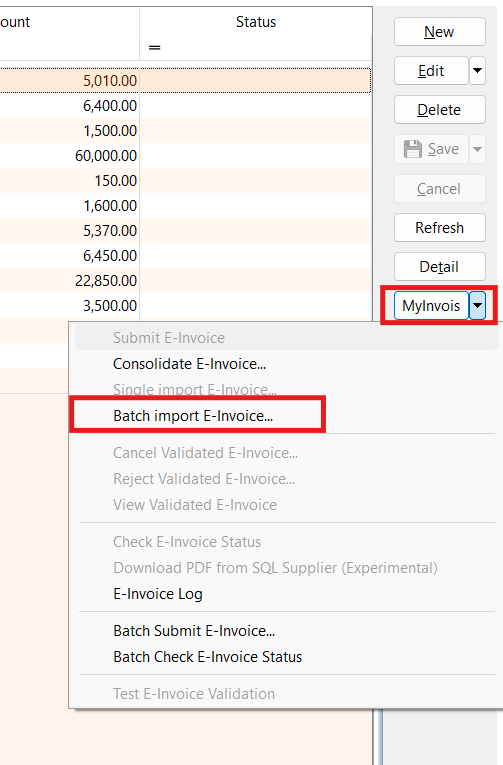
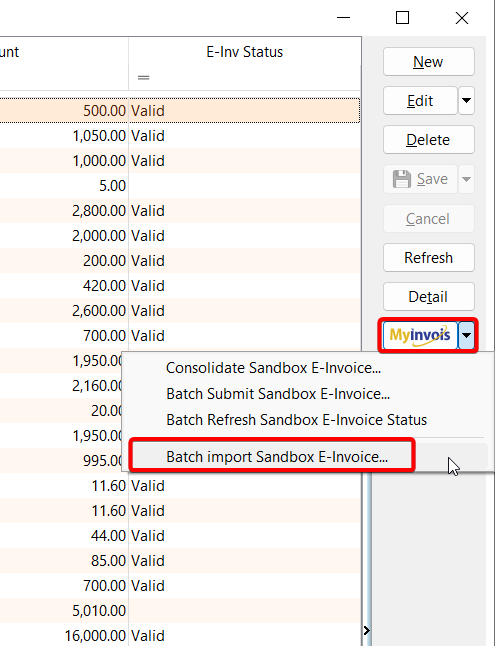
feat: Update MyInvois Import and add Taxpayers QR Code (#43)
* feat: update myinvois import

* feat: add taxpayers qr code

diff --git a/docs/usage/myinvois/einvoice-operation.md b/docs/usage/myinvois/einvoice-operation.md
@@ -216,63 +216,27 @@ You can view all past submission and cancellation log of an invoice.
 
     ![sales-invoice-log](../../../static/img/myinvois/einvoice/sales-invoice-log.png)
 
-## Purchase Documents Import
+## Import
 
-SQL Account offers two methods for importing purchase documents from the E-Invoice system:
+SQL Account offers two methods for importing sales or purchase documents from the E-Invoice system:
 
-- [Single Import](#single-import): Enables you to import individual documents.
 - [Batch Import](#batch-import): Allows you to import multiple documents at once.
+- [Linking](#linking): Allows you to link the existing document with received E-Invoice document.
 
 To ensure proper import, it's important to understand how the document types in SQL Account are mapped to those received from the E-Invoice system. The table below shows how the document types in the SQL Account are mapped to those received from the E-Invoice system:
 
 | SQL Account Document Type | E-Invoice Document Type |
 | ------------------------- | ----------------------- |
+| Sales Invoice             | Self-Billed Invoice     |
+| Cash Sales                | Self-Billed Invoice     |
+| Credit Note               | Self-Billed Credit Note |
+| Debit Note                | Self-Billed Debit Note  |
+| Receipt Voucher           | Self-Billed Invoice     |
 | Purchase Invoice          | Invoice                 |
 | Cash Purchase             | Invoice                 |
 | Purchase Returned         | Credit Note             |
 | Purchase Debit Note       | Debit Note              |
-
-### Single Import
-
-You can view all received documents and single import into SQL Account.
-
-1. Go to document detail screen and click on **MyInvois** > **Single import E-Invoice**
-
-    ![purchase-invoice-single-import-button](../../../static/img/myinvois/einvoice/purchase-invoice-single-import-button.png)
-
-    ![purchase-invoice-single-import-form](../../../static/img/myinvois/einvoice/purchase-invoice-single-import-form.png)
-
-2. Choose the desired date range and press the **Apply** button to filter the documents
-
-    ![purchase-invoice-single-import-form-daterange](../../../static/img/myinvois/einvoice/purchase-invoice-single-import-form-daterange.png)
-
-3. The table will display the list of E-Invoice documents your company has received
-
-    ![purchase-invoice-single-import-form-apply](../../../static/img/myinvois/einvoice/purchase-invoice-single-import-form-apply.png)
-
-4. SQL Account will auto-map the supplier code if the supplier's TIN matches the TIN in Maintain Supplier
-
-    :::info[NOTE]
-    We suggest adding the TIN for existing suppliers or creating a new supplier record
-    :::
-
-    :::info[NOTE]
-    A supplier code is required. An error message will appear if you attempt to import a document without a supplier code
-    :::
-
-    ![purchase-invoice-single-import-form-select-supplier](../../../static/img/myinvois/einvoice/purchase-invoice-single-import-form-select-supplier.png)
-
-    ![purchase-invoice-single-import-form-select-supplier-error](../../../static/img/myinvois/einvoice/purchase-invoice-single-import-form-select-supplier-error.png)
-
-5. Once you have selected the desired documents, click on the **Import** button to proceed with the single import
-
-    ![purchase-invoice-single-import](../../../static/img/myinvois/einvoice/purchase-invoice-single-import.png)
-
-    ![purchase-invoice-single-import-details](../../../static/img/myinvois/einvoice/purchase-invoice-single-import-details.png)
-
-6. After reviewing the document details, click **Save** to complete the process
-
-    ![purchase-invoice-single-import-success](../../../static/img/myinvois/einvoice/purchase-invoice-single-import-success.png)
+| Payment Voucher           | Invoice                 |
 
 ### Batch Import
 
@@ -295,30 +259,77 @@ You can view all received documents and batch import into SQL Account.
 
     ![purchase-invoice-batch-import-form-apply](../../../static/img/myinvois/einvoice/purchase-invoice-batch-import-form-apply.png)
 
-4. You can select multiple documents using the checkboxes provided
-5. SQL Account will auto-map the supplier code if the supplier's TIN matches the TIN in Maintain Supplier
+4. Each document will display a status in the **Status** column. Below is the description and import action of each status:
+
+    | Status         | Description                                         | Action                          |
+    | -------------- | --------------------------------------------------- | ------------------------------- |
+    | (Blank)        | Not yet imported                                    | Create new document             |
+    | Doc Exists     | Document already exists in the system               | Update E-Invoice related fields |
+    | Different UUID | Document exists but with a different E-Invoice UUID | Create new document             |
+    | Done           | Successfully imported                               | -                               |
 
     :::info[NOTE]
-    We suggest adding the TIN for existing suppliers or creating a new supplier record
+    Double-clicking a row will drill down into the existing document, while double-clicking the **E-Invoice Status** column will open the validation link
     :::
+
+5. SQL Account will auto-map the Customer/Supplier Code using the following conditions:
+
+    - Same **TIN** (prioritized)
+    - Same **ID Number** or similar **Company Name**
 
     ![purchase-invoice-batch-import-form-select-supplier](../../../static/img/myinvois/einvoice/purchase-invoice-batch-import-form-select-supplier.png)
 
 6. A tax code is required for an item if the tax amount is greater than 0
 
-    :::info[NOTE]
-    The document will displayed in **red font** if the tax code is missing when it is required
-    :::
-
     ![purchase-invoice-batch-import-form-select-tax](../../../static/img/myinvois/einvoice/purchase-invoice-batch-import-form-select-tax.png)
 
-    ![purchase-invoice-batch-import-form-tax](../../../static/img/myinvois/einvoice/purchase-invoice-batch-import-form-tax.png)
-
-7. Once you have selected the desired documents, click on the **Import** button to proceed with the batch import
+7. You may click on the **Import** button to proceed with the import
 
     ![purchase-invoice-batch-import](../../../static/img/myinvois/einvoice/purchase-invoice-batch-import.png)
 
+8. A message dialog  will indicate success or display an error, if any
+
     ![purchase-invoice-batch-import-success](../../../static/img/myinvois/einvoice/purchase-invoice-batch-import-success.png)
+
+    ![purchase-invoice-batch-import-error](../../../static/img/myinvois/einvoice/purchase-invoice-batch-import-error.png)
+
+### Linking
+
+You can view and link the received E-Invoice documents associated with the TIN of the selected document to update its E-Invoice related fields.
+
+1. Click on **🔍** of MyInvois UUID field in more panel
+
+    ![purchase-invoice-linking](../../../static/img/myinvois/einvoice/purchase-invoice-linking.png)
+
+2. The form will display only documents related to the same TIN as the selected record
+
+    ![purchase-invoice-linking-form](../../../static/img/myinvois/einvoice/purchase-invoice-linking-form.png)
+
+3. Select the appropriate document and click on the **Update** button to link it
+
+### Create / Update Customer or Supplier
+
+To create or update a customer or supplier from the import form, follow these steps:
+
+1. Click on the **Company Name** column
+
+    :::info[NOTE]
+    If the Customer/Supplier Code has value, SQL Account will update the existing record. If it is empty, a new customer/supplier will be created.
+    :::
+
+    ![purchase-invoice-batch-import-update-supplier](../../../static/img/myinvois/einvoice/purchase-invoice-batch-import-update-supplier.png)
+
+2. A comparison view will appear showing fields from the existing record in Maintain Customer/Supplier and the E-Invoice document
+
+    :::info[NOTE]
+    - The selected value will appear in **bold**
+    - The unselected value will be shown with a ~~strikethrough~~
+    - If both values (from E-Invoice and existing record) are identical, the cell will be merged
+    :::
+
+    ![purchase-invoice-batch-import-supplier-form](../../../static/img/myinvois/einvoice/purchase-invoice-batch-import-supplier-form.png)
+
+3. Click the **Create** or **Update** button to apply the changes to the customer or supplier record
 
 ## Rejection (Imported Documents)
 

diff --git a/docs/usage/myinvois/einvoice.md b/docs/usage/myinvois/einvoice.md
@@ -52,6 +52,8 @@ After saving your Sales Invoice or Cash Sales document, you can access E-Invoice
 - [Test E-Invoice Validation](e-invoice-operation#test-e-invoice-validation)
 - [Share PDF](e-invoice-operation#share-pdf-experimental)
 - [E-Invoice Request](e-invoice-operation#e-invoice-request)
+- [Batch Import](e-invoice-operation#batch-import)
+- [Linking](e-invoice-operation#linking)
 
 ### Credit Note
 
@@ -141,6 +143,8 @@ After saving your Credit Note document, you can access E-Invoice operations thro
 - [Batch Refresh Status](e-invoice-operation#batch-refresh-status)
 - [Test E-Invoice Validation](e-invoice-operation#test-e-invoice-validation)
 - [Share PDF](e-invoice-operation#share-pdf-experimental)
+- [Batch Import](e-invoice-operation#batch-import)
+- [Linking](e-invoice-operation#linking)
 
 ### Debit Note
 
@@ -192,6 +196,8 @@ After saving your Debit Note document, you can access E-Invoice operations throu
 - [Batch Refresh Status](e-invoice-operation#batch-refresh-status)
 - [Test E-Invoice Validation](e-invoice-operation#test-e-invoice-validation)
 - [Share PDF](e-invoice-operation#share-pdf-experimental)
+- [Batch Import](e-invoice-operation#batch-import)
+- [Linking](e-invoice-operation#linking)
 
 ## Purchase
 
@@ -242,8 +248,8 @@ After saving your Purchase Invoice or Cash Purchase document, you can access E-I
 
 - [Submission](e-invoice-operation#submission)
 - [Consolidate](e-invoice-operation#consolidate)
-- [Single Import](e-invoice-operation#single-import)
 - [Batch Import](e-invoice-operation#batch-import)
+- [Linking](e-invoice-operation#linking)
 - [Cancellation (Self-Billed)](e-invoice-operation#cancellation)
 - [Rejection (Imported)](e-invoice-operation#rejection-imported-documents)
 - [Refresh Status](e-invoice-operation#refresh-status)
@@ -334,8 +340,8 @@ Please ensure that the referenced documents are validated Self-Billed E-Invoices
 After saving your Purchase Returned document, you can access E-Invoice operations through the **MyInvois** button. These operations help you manage your E-Invoices efficiently. Use the links below to navigate to the specific operation section for detailed instructions:
 
 - [Submission](e-invoice-operation#submission)
-- [Single Import](e-invoice-operation#single-import)
 - [Batch Import](e-invoice-operation#batch-import)
+- [Linking](e-invoice-operation#linking)
 - [Cancellation (Self-Billed)](e-invoice-operation#cancellation)
 - [Rejection (Imported)](e-invoice-operation#rejection-imported-documents)
 - [Refresh Status](e-invoice-operation#refresh-status)
@@ -388,8 +394,8 @@ Please ensure that the referenced documents are validated Self-Billed E-Invoices
 After saving your Purchase Debit Note document, you can access E-Invoice operations through the **MyInvois** button. These operations help you manage your E-Invoices efficiently. Use the links below to navigate to the specific operation section for detailed instructions:
 
 - [Submission](e-invoice-operation#submission)
-- [Single Import](e-invoice-operation#single-import)
 - [Batch Import](e-invoice-operation#batch-import)
+- [Linking](e-invoice-operation#linking)
 - [Cancellation (Self-Billed)](e-invoice-operation#cancellation)
 - [Rejection (Imported)](e-invoice-operation#rejection-imported-documents)
 - [Refresh Status](e-invoice-operation#refresh-status)

diff --git a/docs/usage/myinvois/mandatory-fields.md b/docs/usage/myinvois/mandatory-fields.md
@@ -111,6 +111,58 @@ An hourglass icon will appear next to customers or suppliers who has created Inf
 
     ![batch-retrieve-info-progress](../../../static/img/myinvois/guide/batch-retrieve-info-progress.png)
 
+## Taxpayer's QR Code
+
+This feature allows you to upload a customer's or supplier's MyInvois Taxpayer QR Code to automatically retrieve and update their information.
+
+### Maintain Customer / Supplier
+
+1. Enter detail mode for a new or existing customer or supplier
+
+2. Go to the **Tax** tab and click on the **Upload File** button
+
+    ![taxpayers-qr-maintain-customer](../../../static/img/myinvois/einvoice/taxpayers-qr-maintain-customer.png)
+
+3. Click the **Open File** icon to select a QR code image from your device or click the **Paste** icon to paste a QR code image from your clipboard
+
+    ![taxpayers-qr-form](../../../static/img/myinvois/einvoice/taxpayers-qr-form.png)
+
+4. Once the QR code is uploaded, SQL Account will automatically retrieve and display the taxpayer's information in the memo field
+
+    :::info[NOTE]
+    Upload Production Taxpayer's QR Code only
+    :::
+
+    ![taxpayers-qr-form-info](../../../static/img/myinvois/einvoice/taxpayers-qr-form-info.png)
+
+5. Click the **OK** button to update the selected customer or supplier with the retrieved data
+
+    ![taxpayers-qr-form-ok](../../../static/img/myinvois/einvoice/taxpayers-qr-form-ok.png)
+
+### Sales / Purchase / Cashbook document
+
+1. Enter detail mode for a new or existing document
+
+2. Go to the **More** panel and click on the **QR Code** icon in MyInvois header
+
+    ![taxpayers-qr-sales-invoice](../../../static/img/myinvois/einvoice/taxpayers-qr-sales-invoice.png)
+
+3. Click the **Open File** icon to select a QR code image from your device or click the **Paste** icon to paste a QR code image from your clipboard
+
+    ![taxpayers-qr-form](../../../static/img/myinvois/einvoice/taxpayers-qr-form.png)
+
+4. Once the QR code is uploaded, SQL Account will automatically retrieve and display the taxpayer's information in the memo field
+
+    :::info[NOTE]
+    Upload Production Taxpayer's QR Code only
+    :::
+
+    ![taxpayers-qr-form-info](../../../static/img/myinvois/einvoice/taxpayers-qr-form-info.png)
+
+5. Click the **OK** button to update the selected document with the retrieved data
+
+    ![taxpayers-qr-form-ok](../../../static/img/myinvois/einvoice/taxpayers-qr-form-ok.png)
+
 ## Customer / Supplier Tax Info
 
 ### Local Business (Companies registered with local authorities)
